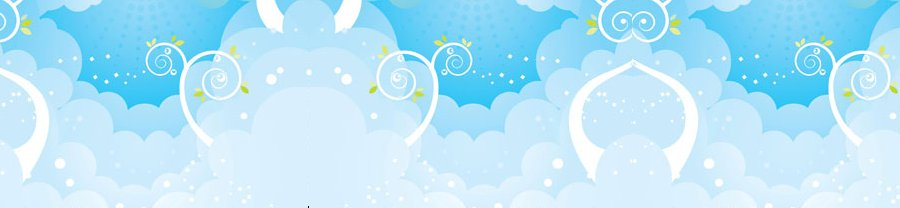
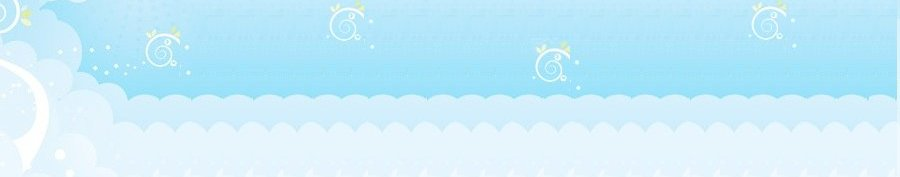
latest chnages

diff --git a/public/stylesheets/style.css b/public/stylesheets/style.css
@@ -35,7 +35,7 @@ quotes : "" "";
 }
 /*******************************************************/
 
-body { margin: 0px 0px 0px 0px; padding:0px; color: #6d6c67; font-family: Arial, Helvetica, sans-serif; font-style: normal; font-variant: normal; font-weight: normal; font-size: 13px; line-height: normal;height:100%; background-color:#f0f6fd;}
+body { margin: 0px 0px 0px 0px; padding:0px; color: #6d6c67; font-family: Arial, Helvetica, sans-serif; font-style: normal; font-variant: normal; font-weight: normal; font-size: 13px; line-height: normal;height:100%; background:#daf0fe url(/images/main.jpg) repeat-x;border:1px solid #b0effd;}
 
 
 .notice{
@@ -53,16 +53,17 @@ body { margin: 0px 0px 0px 0px; padding:0px; color: #6d6c67; font-family: Arial,
 }
 
 .header{
-	height:70px;border-bottom:0px solid #fff;
-	margin:0px 0px 5px 0px;
-	padding:15px 0px 0px 0px;background: url(/images/logo.gif) no-repeat;
+	height:70px;
+	margin:10px 0px 5px 0px;
+	padding:0px 0px 0px 120px;
+	background: url(/images/logo.gif) no-repeat;
 }
 
 .header h1{
         font-family:URW Chancery L Italic;
 	color:#f92e5d;
-	font-size:40px;
-	padding-left:130px;
+	font-size:60px;
+	padding-top:10px;
 }
 
 .header h1 span{color:#a67d00;} 
@@ -71,24 +72,26 @@ body { margin: 0px 0px 0px 0px; padding:0px; color: #6d6c67; font-family: Arial,
 .header_rt {float:right;width:50%;margin:0px;padding:0px;}
 
 hr{border-top:1px solid #ffe58a;border-bottom:1px solid #fff9e6;}
+
 .main{
-	margin:10px 0px;
+	margin:10px 5px;
 	height:auto !important;
 	min-height:900px;
 	height:auto !important;
     	height:900px;
     	padding:12px 8px 3px 8px;
-	
-
-	
+	background-color:#f6fdff;
+	border:1px solid #e7e7e7;
+	-moz-border-radius: 5px;
+	-webkit-border-radius: 5px;
 }
 
 .heading{
-	background:#b92f35 url(/images/heading.jpg) repeat-x;
+	background:#1796c2 url(/images/head_bg.jpg) no-repeat right;
 	margin:0px 5px 10px 5px;
-	height:120px;
-	border:1px solid #b62b31;
-	padding:15px 10px 0px 0px;
+	height:200px;
+	border:4px solid #fff;
+	padding:12px 10px 0px 0px;
 	-moz-border-radius: 5px;
 	-webkit-border-radius: 5px;
 }
@@ -100,18 +103,19 @@ hr{border-top:1px solid #ffe58a;border-bottom:1px solid #fff9e6;}
 }
 
 .heading_lt h1{
-	color:#fffcfd;
-	font-size:25px;
+	color:#fff;
+	font-size:28px;
 	font-weight:normal;
 	padding:0px 0px 0px 10px;
+	line-height:40px;
 	}
 
 .heading_lt p{
-	color:#fffcfd;
-	font-size:18px;
+	color:#fff;
+	font-size:20px;
 	font-weight:normal;
 	padding-left:10px;
-	line-height:30px;
+	line-height:32px;
 	}
 
 
@@ -120,11 +124,11 @@ hr{border-top:1px solid #ffe58a;border-bottom:1px solid #fff9e6;}
 	width:22%;
 	float:right;
 	height:120px;
-	border-left:1px solid #b92f35;
+	bordxer-left:1px solid #b92f35;
 }
 
 .main h2{
-	color:#010101;
+	color:#ec355f;
 	font-size:25px;
 	font-weight:normal;
 	padding:0px 5px;
@@ -142,7 +146,7 @@ h4 {
 	padding:0px 5px;
 }
 
-.create_btn{margin-bottom:15px;}
+.create_btn{margin-bottom:15px;margin-top:5px;}
 
 .create_btn a{
 	background: #dddddd url(/images/btn.gif) repeat-x;
